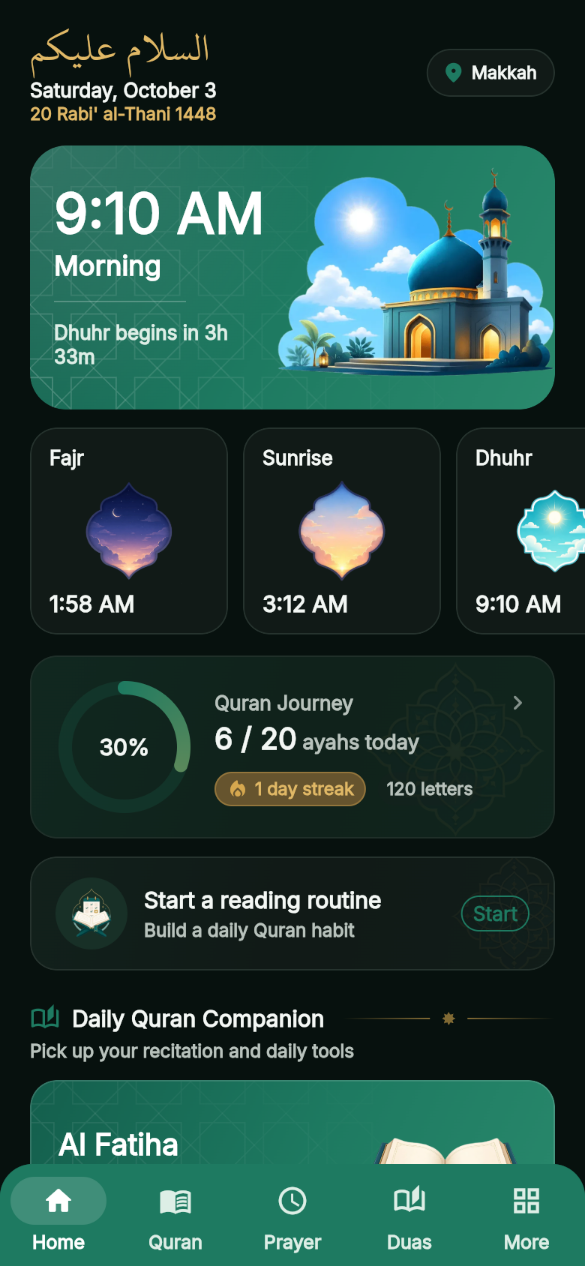
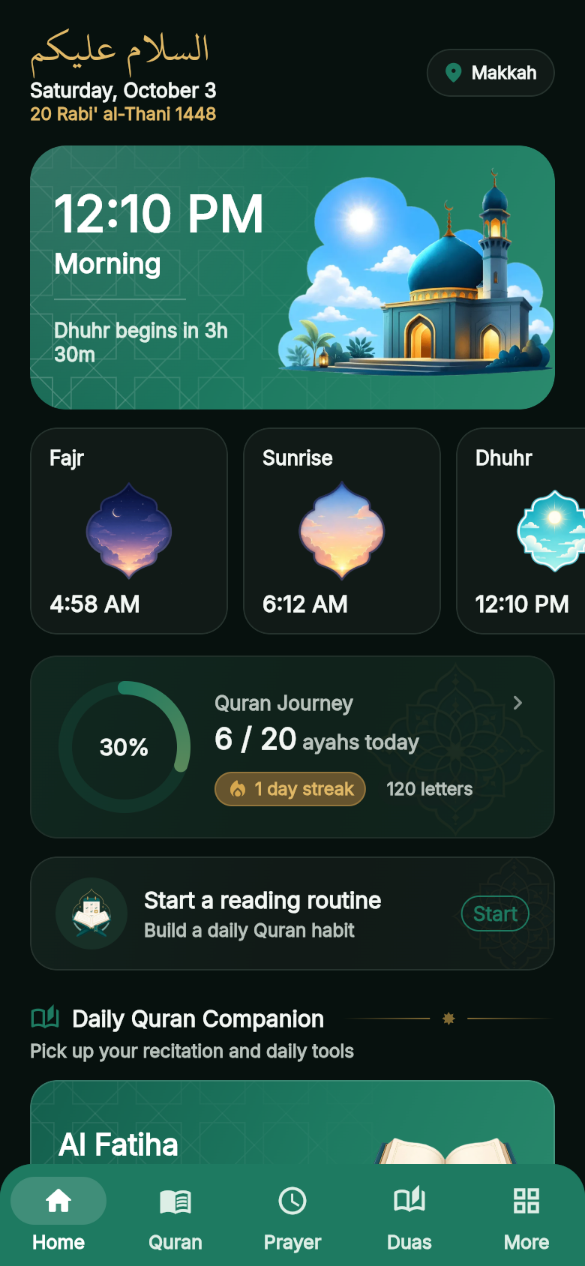
docs(readme): recapture screenshots with Makkah time zone
Prayer times were computed in the sandbox's UTC zone and looked wrong for the
seeded Makkah location. The preview tooling now sets the browser time zone
(UI_PREVIEW_TZ, default Asia/Riyadh) and the screenshots are regenerated.

Claude-Session: https://claude.ai/code/session_01XcHzay2veLefmFZGCmEcPq

Changed region(s): [[0.0923, 0.154, 0.4615, 0.3081], [0.8, 0.4621, 0.9846, 0.4929], [0.0923, 0.4621, 0.2462, 0.4929]]

diff --git a/tool/ui_preview/lib.js b/tool/ui_preview/lib.js
@@ -16,6 +16,9 @@ const CHROME =
   process.env.UI_PREVIEW_CHROME ||
   '/opt/pw-browsers/chromium-1194/chrome-linux/chrome';
 const PORT = Number(process.env.UI_PREVIEW_PORT || 8099);
+// Prayer times are computed in the browser's time zone, so match the seeded
+// location (Makkah) or the times look wrong.
+const TIMEZONE = process.env.UI_PREVIEW_TZ || 'Asia/Riyadh';
 
 for (const d of [WORK, SHOTS, FONTS, PROFILE]) fs.mkdirSync(d, { recursive: true });
 
@@ -57,7 +60,7 @@ async function open({ locale = 'en-US', scheme = 'dark', width = 390, height = 8
   const ctx = await chromium.launchPersistentContext(PROFILE, {
     executablePath: CHROME,
     args: ['--no-sandbox', '--use-gl=swiftshader', '--enable-unsafe-swiftshader'],
-    viewport: { width, height }, deviceScaleFactor: 2, colorScheme: scheme, locale,
+    viewport: { width, height }, deviceScaleFactor: 2, colorScheme: scheme, locale, timezoneId: TIMEZONE,
   });
   await ctx.route(/^https?:\/\/(?!localhost)/, async (route) => {
     const u = route.request().url();

diff --git a/tool/ui_preview/README.md b/tool/ui_preview/README.md
@@ -4,7 +4,7 @@ Screenshots of the app from a Flutter **web build**, driven by Playwright. It
 exists because the cloud sandbox has no emulator, and it is how the UI polish
 work was checked and how the README screenshots were produced. It is a preview,
 not a device: it renders with CanvasKit, has no status bar, and prayer times
-come from the machine clock.
+are computed for the seeded location in the browser's time zone.
 
 ## Requirements
 
@@ -27,6 +27,7 @@ come from the machine clock.
 | `UI_PREVIEW_BUILD` | `$UI_PREVIEW_DIR/webbuild` | Folder holding the web build |
 | `UI_PREVIEW_CHROME` | `/opt/pw-browsers/chromium-1194/chrome-linux/chrome` | Chromium binary |
 | `UI_PREVIEW_PORT` | `8099` | Local port for the static server |
+| `UI_PREVIEW_TZ` | `Asia/Riyadh` | Browser time zone; keep it matching the seeded location so prayer times look right |
 | `PLAYWRIGHT_MODULE` | `playwright` | Where to `require` Playwright from |
 
 ## Workflow
